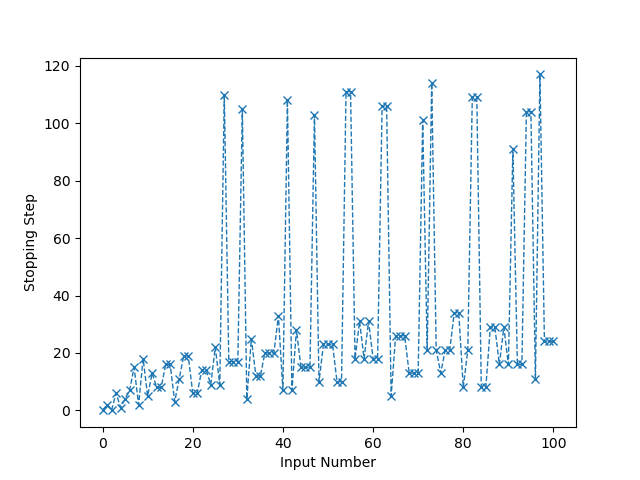
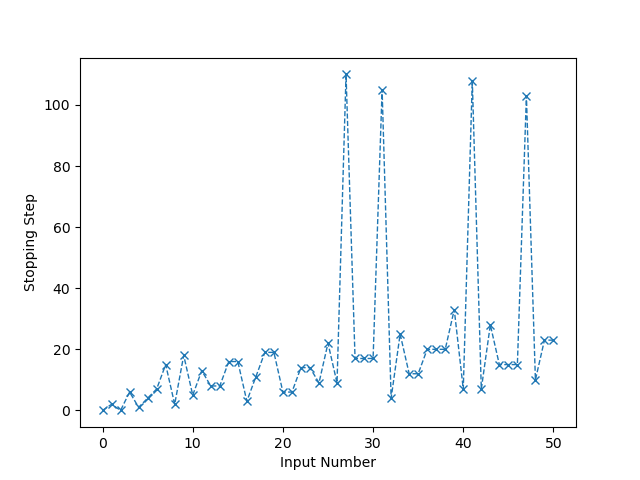
Update

diff --git a/CollatzConjectureRange.py b/CollatzConjectureRange.py
@@ -54,21 +54,15 @@ for x in range (1,upperlimit):
 		else:
 
 			num = int((3*num)+1)	# Follows the conjecture rule for the odd values
-
-		if step == 0:
                         
-                        MATRIX[x, 1] = step     	# Saves the number of steps needed
-
-                else:
-                        
-                        MATRIX[x, 1] = math.log(step)     	# Saves the number of steps needed
-		
-		step = step + 1			# Increases the step value for each loop
+		MATRIX[x, 1] = step	# Saves the number of steps needed
+                		
+		step = step + 1	# Increases the step value for each loop
 
 	MATRIX[x, 0] = x		# Saves the number at hand in the first column
 
-print('Number, No. of Steps')	# Prints the column lables for the matrix
-print(MATRIX)					# Prints the matrix
+print('Number, No. of Steps')	        # Prints the column lables for the matrix
+print(MATRIX)				# Prints the matrix
 
 print('\n\n==============================================================\n\n')
 
